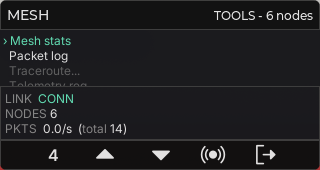
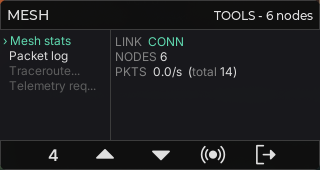
refactor(meshtastic): Tools view — vertical split layout
Switch the Tools output panel from a bottom horizontal strip to a right-column
layout (list 110px left, divider 1px, output panel 209px right). This matches
the landscape aspect ratio of the 320×170 display more naturally and keeps the
list always visible alongside the output — consistent with the Map's
left/right side-column pattern.

Claude-Session: https://claude.ai/code/session_01TYuc8A8hK85pih96vihqqo

diff --git a/apps/meshtastic/src/view/meshtastic_screen.cpp b/apps/meshtastic/src/view/meshtastic_screen.cpp
@@ -289,9 +289,9 @@ void MeshtasticScreen::build_content(lv_obj_t* content) {
     lv_label_set_text(map_status_, "");
     lv_obj_align(map_status_, LV_ALIGN_BOTTOM_MID, 0, -1);
 
-    // TOOLS view: a list label (4 items) in the upper half + an output panel in
-    // the lower half. Both are children of the content directly (not in a flex
-    // container) so their heights are fixed and don't fight each other.
+    // TOOLS view: list on the LEFT (~110px wide), output panel on the RIGHT
+    // (remaining ~210px). Side-by-side uses the landscape format efficiently,
+    // mirrors the ADS-B radar/sidebar pattern and the rest of the Meshtastic UI.
     tools_view_ = lv_obj_create(content);
     lv_obj_remove_style_all(tools_view_);
     lv_obj_set_size(tools_view_, LV_PCT(100), LV_PCT(100));
@@ -299,28 +299,34 @@ void MeshtasticScreen::build_content(lv_obj_t* content) {
     lv_obj_set_style_pad_all(tools_view_, 0, 0);
     lv_obj_add_flag(tools_view_, LV_OBJ_FLAG_HIDDEN);
 
-    // List in the top half (4 items ≈ 4 × 14px lines = 56px, fits well in 110px)
+    // Left column: 4-item list (≈110px wide).
+    constexpr int32_t kListW = 110;
     tools_list_ = lv_label_create(tools_view_);
     lv_label_set_recolor(tools_list_, true);
+    lv_label_set_long_mode(tools_list_, LV_LABEL_LONG_CLIP);
     lv_obj_set_style_text_font(tools_list_, fs, 0);
     lv_obj_set_style_pad_all(tools_list_, 3, 0);
     reactive::bind_theme(tools_list_, vm_.dark_mode_subject(), reactive::ThemeRole::Text);
-    lv_obj_set_width(tools_list_, LV_PCT(100));
+    lv_obj_set_size(tools_list_, kListW, LV_PCT(100));
     lv_obj_align(tools_list_, LV_ALIGN_TOP_LEFT, 0, 0);
     lv_label_set_text(tools_list_, "");
 
-    // Output panel in the lower ~half; hidden until the tool is "running".
+    // Thin vertical divider between list and output.
+    lv_obj_t* div = lv_obj_create(tools_view_);
+    lv_obj_remove_style_all(div);
+    lv_obj_set_size(div, 1, LV_PCT(100));
+    lv_obj_set_style_bg_color(div, view::palette(vm_.is_dark_mode()).border, 0);
+    lv_obj_set_style_bg_opa(div, LV_OPA_COVER, 0);
+    lv_obj_align(div, LV_ALIGN_TOP_LEFT, kListW, 0);
+
+    // Right column: output panel (rest of width). Hidden until a tool is run.
     tools_output_ = lv_label_create(tools_view_);
     lv_label_set_recolor(tools_output_, true);
     lv_label_set_long_mode(tools_output_, LV_LABEL_LONG_WRAP);
     lv_obj_set_style_text_font(tools_output_, fs, 0);
     lv_obj_set_style_pad_all(tools_output_, 4, 0);
-    lv_obj_set_style_bg_color(tools_output_, view::palette(vm_.is_dark_mode()).surface, 0);
-    lv_obj_set_style_bg_opa(tools_output_, LV_OPA_COVER, 0);
-    lv_obj_set_style_border_color(tools_output_, view::palette(vm_.is_dark_mode()).border, 0);
-    lv_obj_set_style_border_width(tools_output_, 1, 0);
-    lv_obj_set_size(tools_output_, LV_PCT(100), 54); // bottom 54px of the 110px content
-    lv_obj_align(tools_output_, LV_ALIGN_BOTTOM_LEFT, 0, 0);
+    lv_obj_set_size(tools_output_, 320 - kListW - 1, LV_PCT(100));
+    lv_obj_align(tools_output_, LV_ALIGN_TOP_LEFT, kListW + 1, 0);
     reactive::bind_theme(tools_output_, vm_.dark_mode_subject(), reactive::ThemeRole::Text);
     lv_label_set_text(tools_output_, "");
     lv_obj_add_flag(tools_output_, LV_OBJ_FLAG_HIDDEN);
